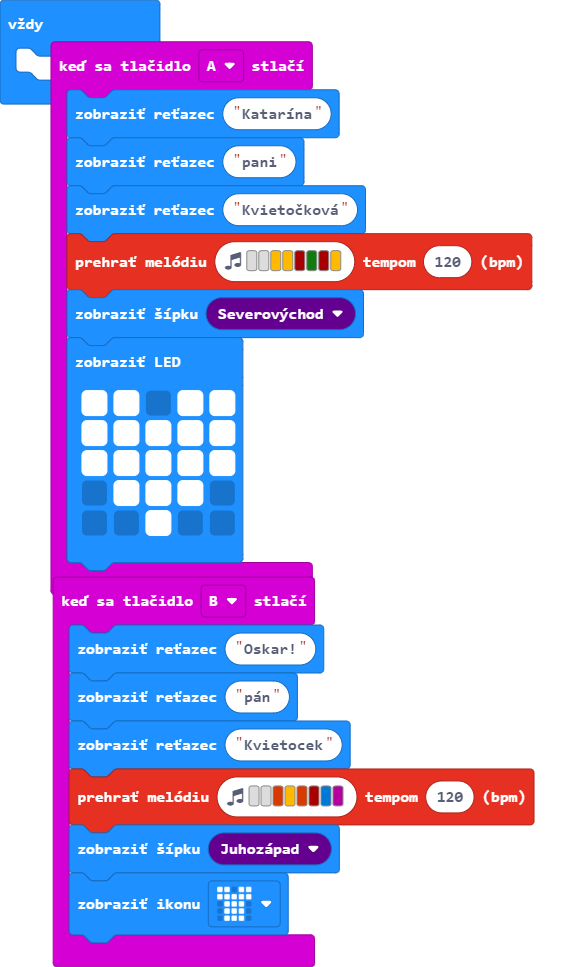
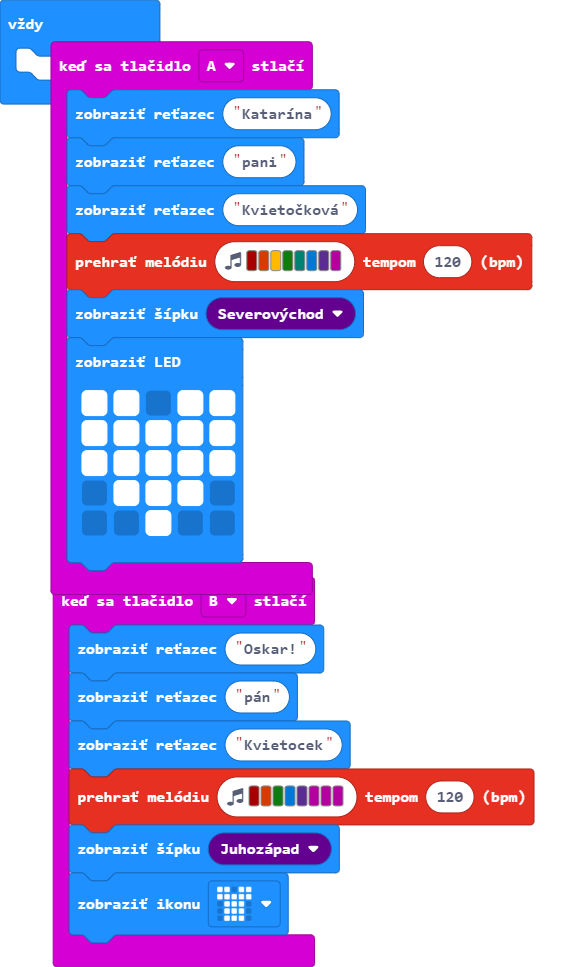
Aktualizovať main.blocks, main.ts

diff --git a/main.ts b/main.ts
@@ -2,7 +2,7 @@ input.onButtonPressed(Button.A, function () {
     basic.showString("Katarína")
     basic.showString("pani")
     basic.showString("Kvietočková")
-    music.playMelody("- - A A C5 G C5 A ", 120)
+    music.playMelody("C5 B A G F E D C ", 120)
     basic.showArrow(ArrowNames.NorthEast)
     basic.showLeds(`
         # # . # #
@@ -16,7 +16,7 @@ input.onButtonPressed(Button.B, function () {
     basic.showString("Oskar!")
     basic.showString("pán")
     basic.showString("Kvietocek")
-    music.playMelody("- - B A B C5 E C ", 120)
+    music.playMelody("C5 B G E D C C C ", 120)
     basic.showArrow(ArrowNames.SouthWest)
     basic.showIcon(IconNames.TShirt)
 })
